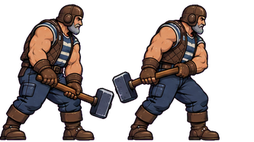
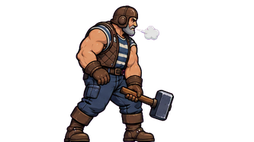
Рудник 5: свои виды (сидерит, барит, галенит, сфалерит, халцедон), реакция бурильщика без склейки, документ доводки

diff --git a/docs/mine5-proval.md b/docs/mine5-proval.md
@@ -131,10 +131,12 @@
 (лёд + самородки) было 50% — нагрузку снизил (load 11, nug 0.5, лёд 0.7). Рамка поля — порода `coalfrost` в
 `board_kit.py` (угольный сланец, иней по рёбрам, лёд во всех трещинах).
 
-## 7. Находки (пул, `AREAS[4].pool`)
+## 7. Находки (пул, `AREAS[4].pool`) — свои виды
 
-Новых видов нет (их делает другая работа): цветок в кварце 24 (цветы тундры в «ледяном» кварце), сапфир 18, рубин 12,
-алмаз 2. Когда будут свои виды — заменить (кандидаты: антрацит/гагат, сидерит, «ледяной» кварц, янтарь Шпицбергена).
+Профили в `SpecLooks` (генератор не тронут, кроме того что галенит — металл в `spec_genome`), факты — `Atlas.FACTS`:
+сидерит 24 (бурые ромбы-«кубики» в сланце, иногда кварц), барит 18 (розы и пластины, белый/медовый/голубой), галенит 12
+(свинцово-серые металлические кубы, иногда пластинки барита), сфалерит 10 (смолистые красно-бурые додекаэдры), «Svalbard
+Agate» 6 (халцедон, голубые почки), цветок в кварце 4, алмаз 1.2. Витрина: `spec_gallery -- area=4 px=180 cols=6`.
 
 ## 8. Сюжет по глубинам (сделано, `StoryScene.SCENES`, поводы — `Home._story_beat`, проводник — сестра)
 
@@ -191,6 +193,18 @@ haunted правкой), экспорт отражает его лицом к с
 свет из щели на лёд, следы светятся, удар сердца звуком, воронка вздрагивает со стоном врат.
 Ключи: `-- screen=home area=4 built=… open=N wins=… steps=… scroll=N mine_event=brother|lantern|heart|signs|dwarf|bear quiet`.
 
-**Не сделано / не проверено:** бой с братом; свои виды находок; музыка рудника (Suno); не проверено на iPhone (сияние —
-свой шейдер, частицы снега, много `_light`); гном открывает глаза едва заметно (картинка `d7_eye` слабо отличается);
-окно «рудник обустроен» говорит «новые рудники в следующей версии», а не «внизу ждёт брат» (окно общее, не трогал).
+**Доводка 30.10 (вторая сессия, «до 9 из 10»):** все листы бригад и животных проверены покадрово (`crew_sheet5.py` →
+`mine5/crews/`): тайминги `PLAY` подобраны по рисункам (у забойщика и полярника пропущены дубли замаха, у кочегара — второй
+наклон, у бурильщика и крепильщика — правильный кадр удара), хаски воет и песец прыгает редко, вой звучит в кадр поднятой
+головы; реакции теперь в рост работы (меряется сам рисунок, не клетка листа); склеенный рисунок в реакции бурильщика
+заменяется соседним. Координаты поверхности сняты по сеткам (`grid/g_*.png`): колесо козлеца точно в раме, поверх него —
+перекладина рамы (`front_beam.png`), окна ТЭЦ и Дворца, жёлоб, дымы, прожектор, люди и звери на своих террасах, брат — на
+уступе внутри воронки, медведь — у дальнего края. Лёд на поле — рендер Blender (`prototype/tools/blender/ice_kit.py`:
+прозрачное стекло с инеем по рёбрам, голубое тело, после удара расколот на 3 куска, осколки летят). Пропасть между
+глубинами без швов (`export_mine5.seam_abyss`: воздух пропасти у краёв полосы сходится в один глубокий цвет). Сердце снизу —
+луч света поднимается по пропасти цветом осколка; гном во льду открывает светящиеся глаза, медальон вспыхивает, иней
+трескается. Финальное окно: «The dwarven gate stands open. He is waiting beyond it.» Автоигрок (16 уровней на глубину):
+69/81/88/94/69/81/94/100/75%, все первые уровни с новым препятствием выиграны, угля 12–20 за победу.
+
+**Не сделано / не проверено:** бой с братом; музыка рудника (Suno); не проверено на iPhone (сияние —
+свой шейдер, частицы снега, много `_light`); звуки не прослушаны.

diff --git a/CLAUDE.md b/CLAUDE.md
@@ -637,7 +637,10 @@
   (`LOCK` 4/5, буква `i`, `BoardView.ice`), снег/мерзлота (`BoardSprites.sand()/granite()` по руднику), рамка `kit/coalfrost`,
   ярусы `LevelGen.AREA_TIERS[4]` повторяют механики рудников 1–4. Сюжет: сцены `proval_*` (сестра — проводница; брат с 4
   осколками — `art/story/rival5/`, `brother_*`), поводы в `Home._story_beat`. Ключ `quiet` — без обучения (для записи GIF).
-  Не сделано: бой с братом, свои виды находок, музыка; не проверено на iPhone.
+  Не сделано: бой с братом, музыка; не проверено на iPhone.
+  30.10, доводка: бригады покадрово (`art/zone/crew_sheet5.py`, тайминги `PLAY`), координаты поверхности по сеткам, лёд —
+  рендер Blender `ice_kit.py` (`blockers_kit/ice*`), пропасть без швов (`export_mine5.seam_abyss`), сердце лучом по пропасти,
+  гном открывает глаза, свои виды (сидерит, барит, галенит, сфалерит, «Svalbard Agate» — `SpecLooks`), автоигрок 69–100%.
 - 29.10, **обучение + сюжет** (одна работа, кода ещё нет): рассказчик — проводник рудника. Обычно — фигура в сцене рудника
   (экран едет к нему, жест, облачко); в знаковые моменты — крупный портрет на затемнённом экране, можно с боссом напротив.
   Стиль портретов — огранённая плоская иллюстрация по референсам `art/story/refs/` (крупные плоские осколки, без контура).
